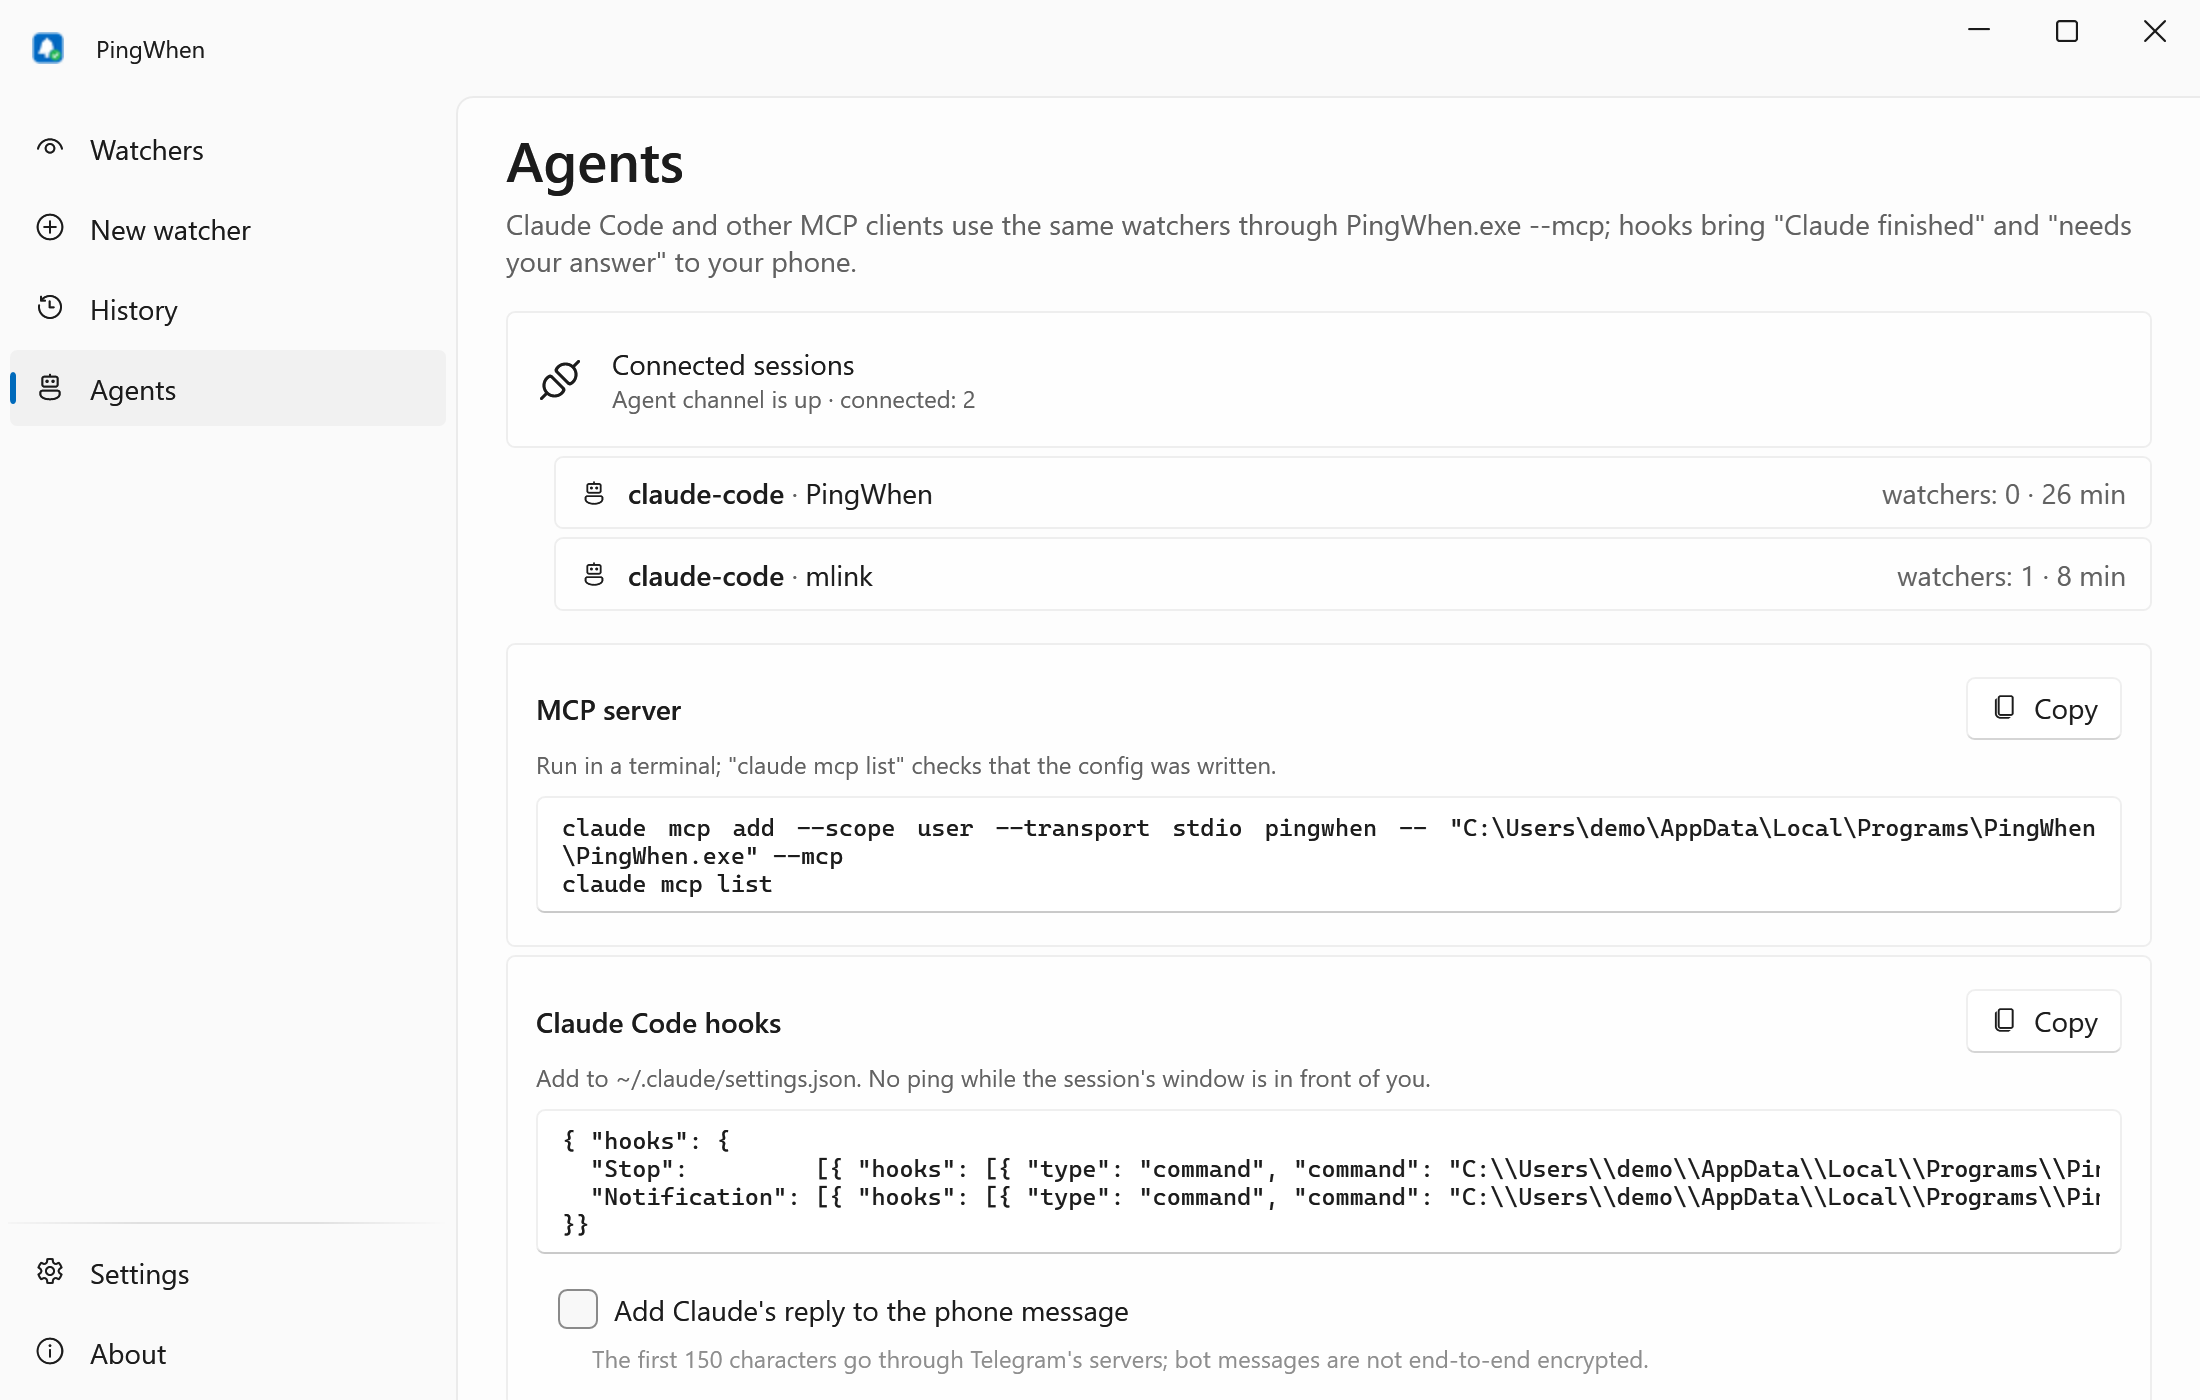
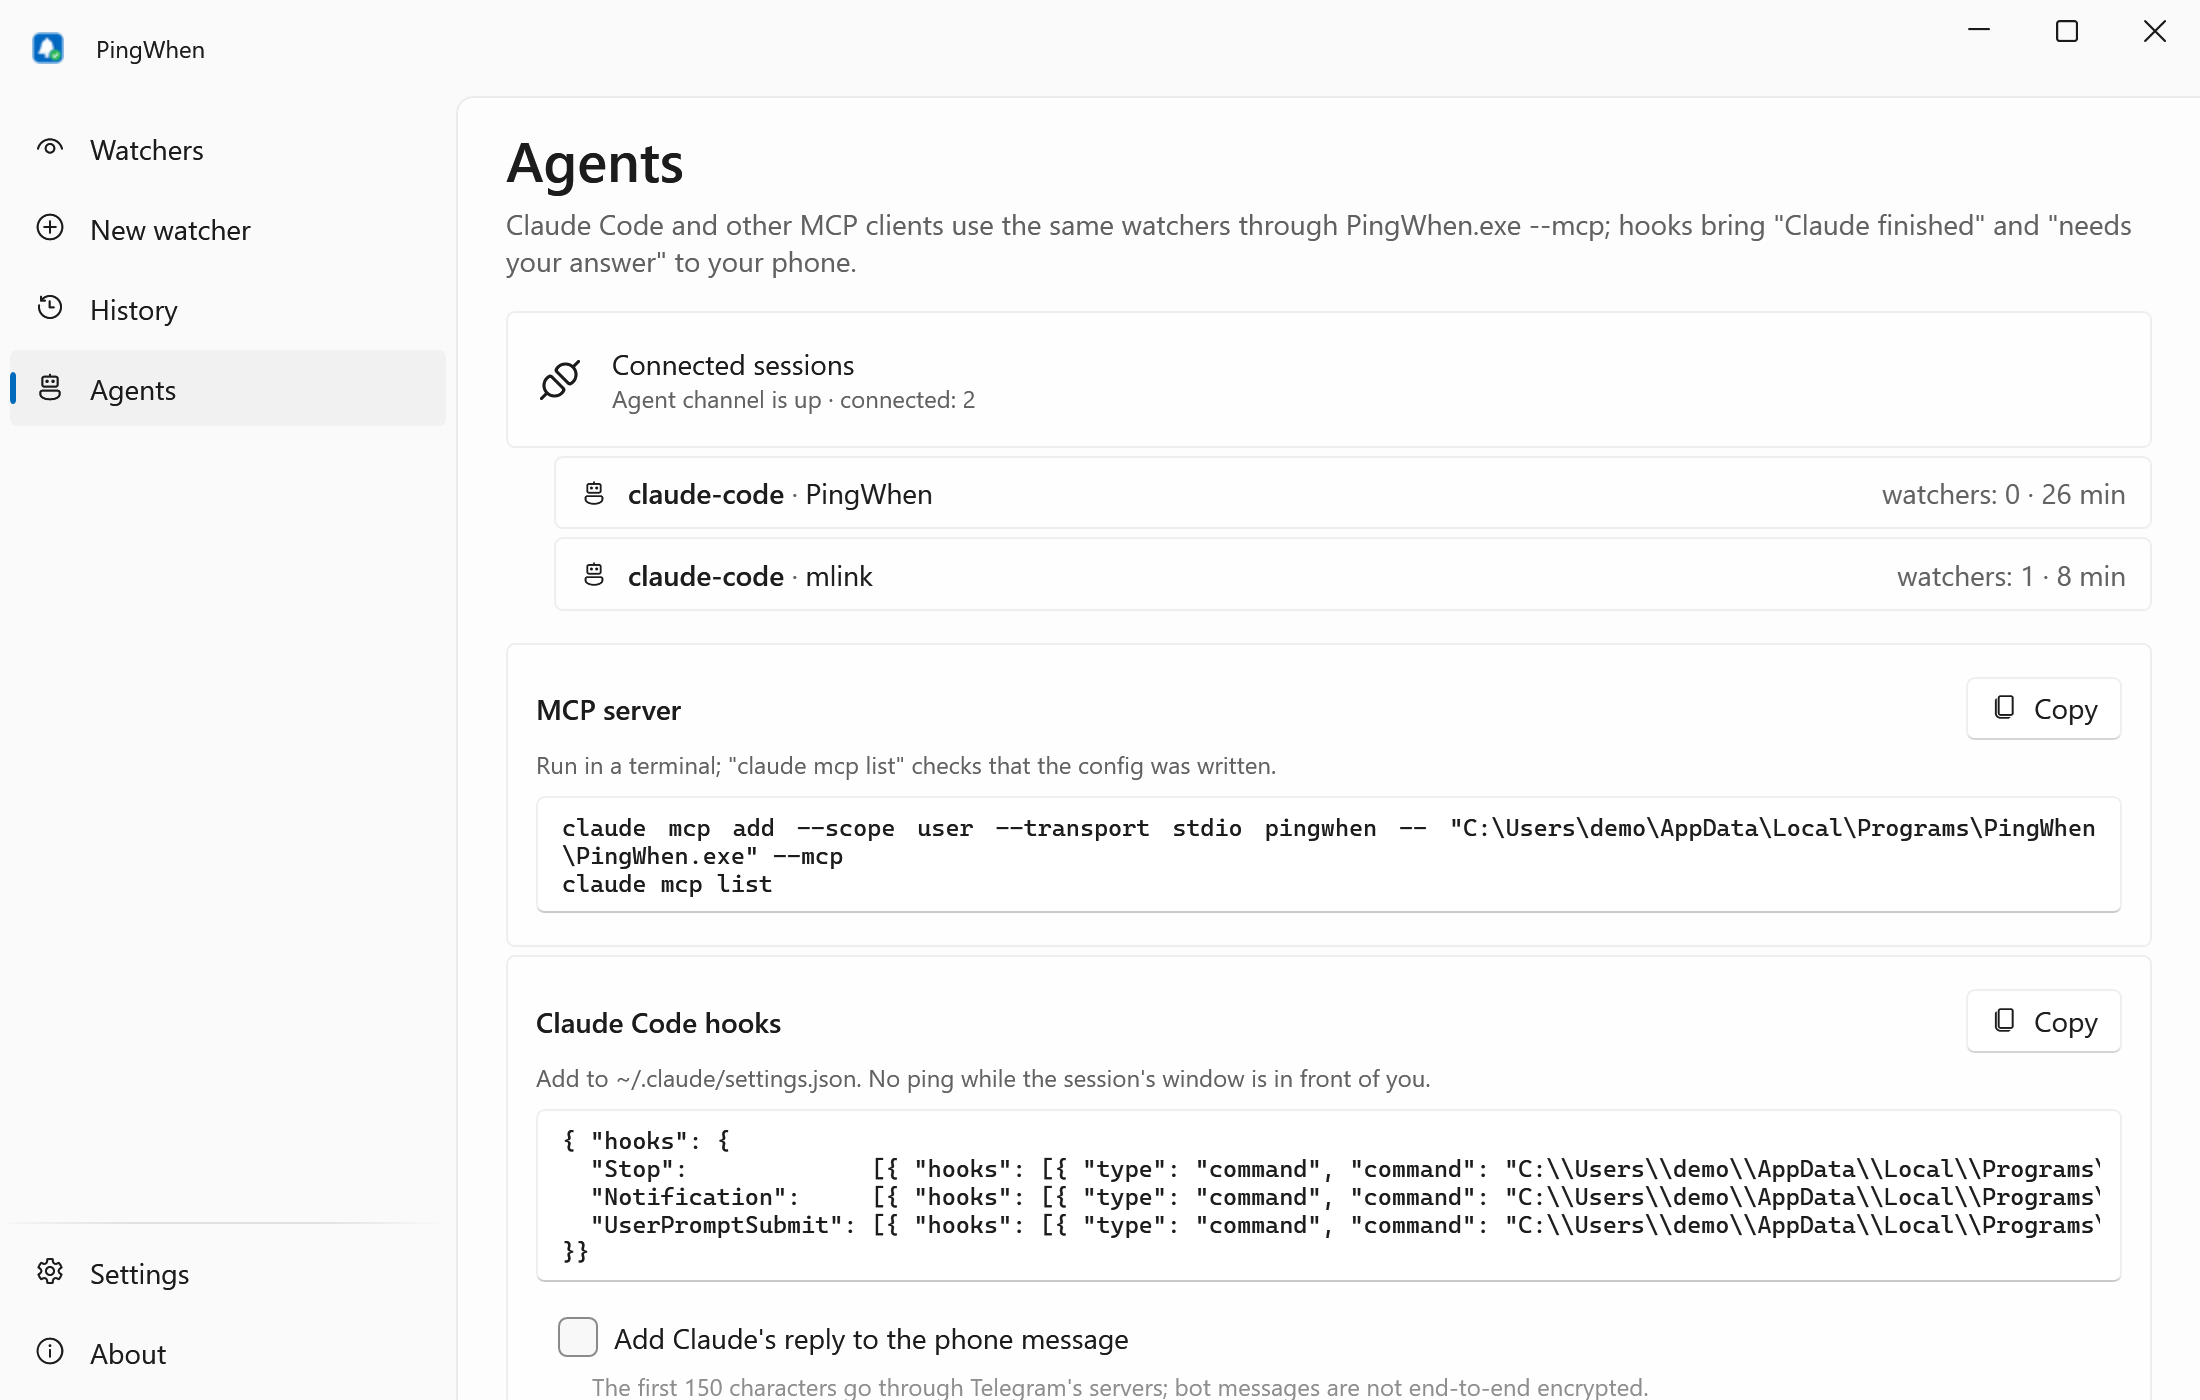
v1.0 polish: README and screenshots, repeat by command line, demo ntfy
README EN/RU describe region watch, screenshots, ntfy, answering permission prompts from the
phone, repeat/deadline/flash and the UserPromptSubmit and PermissionRequest hooks. Repeating a
terminal command matches its command line, not every process with the same exe. The demo shows
ntfy with its QR code; the ntfy labels get the width Russian needs.

Changed region(s): [[0.2473, 0.8293, 0.9582, 1.0]]

diff --git a/src/PingWhen/Features/PingSettingsView.xaml b/src/PingWhen/Features/PingSettingsView.xaml
@@ -93,7 +93,7 @@
                 <StackPanel x:Name="NtfyPanel" Margin="0,8,0,0">
                     <Grid Margin="0,0,0,8">
                         <Grid.ColumnDefinitions>
-                            <ColumnDefinition Width="110" />
+                            <ColumnDefinition Width="Auto" MinWidth="110" />
                             <ColumnDefinition Width="*" />
                             <ColumnDefinition Width="Auto" />
                         </Grid.ColumnDefinitions>
@@ -102,12 +102,12 @@
                             <RowDefinition Height="Auto" />
                             <RowDefinition Height="Auto" />
                         </Grid.RowDefinitions>
-                        <ui:TextBlock Text="{l:T Ntfy.Server}" VerticalAlignment="Center" />
+                        <ui:TextBlock Text="{l:T Ntfy.Server}" VerticalAlignment="Center" Margin="0,0,12,0" />
                         <ui:TextBox x:Name="NtfyServer" Grid.Column="1" Grid.ColumnSpan="2" Margin="0,0,0,6" />
-                        <ui:TextBlock Grid.Row="1" Text="{l:T Ntfy.Topic}" VerticalAlignment="Center" />
+                        <ui:TextBlock Grid.Row="1" Text="{l:T Ntfy.Topic}" VerticalAlignment="Center" Margin="0,0,12,0" />
                         <ui:TextBox x:Name="NtfyTopic" Grid.Row="1" Grid.Column="1" FontFamily="Cascadia Mono, Consolas" Margin="0,0,0,6" />
                         <ui:Button x:Name="NtfyNewTopic" Grid.Row="1" Grid.Column="2" Content="{l:T Ntfy.Generate}" Margin="8,0,0,6" />
-                        <ui:TextBlock Grid.Row="2" Text="{l:T Ntfy.Token}" VerticalAlignment="Center" />
+                        <ui:TextBlock Grid.Row="2" Text="{l:T Ntfy.Token}" VerticalAlignment="Center" Margin="0,0,12,0" />
                         <PasswordBox x:Name="NtfyToken" Grid.Row="2" Grid.Column="1" Grid.ColumnSpan="2" />
                     </Grid>
                     <StackPanel Orientation="Horizontal">

diff --git a/src/PingWhen/Demo/DemoData.cs b/src/PingWhen/Demo/DemoData.cs
@@ -58,6 +58,7 @@ public static class DemoData
                 (161, Outcome.Lost, "Потерян: render.exe", "Не найден после перезапуска", 0, ""),
                 (190, Outcome.Done, "Готово: ollama pull · 7 мин", "Сеть ниже 100 КБ/с 60 с", 420, "pc"),
                 (240, Outcome.Error, "Ошибка: gradle · код 137", "Процесс завершился, код 137", 860, "pc,phone:failed"),
+                (275, Outcome.Done, "Готово: render.blend · 48 мин", "Найден текст: Finished 100%", 2880, "pc,ntfy"),
             ]
             :
             [
@@ -73,6 +74,7 @@ public static class DemoData
                 (161, Outcome.Lost, "Lost: render.exe", "Not found after a restart", 0, ""),
                 (190, Outcome.Done, "Done: ollama pull · 7 min", "Network below 100 KB/s for 60 s", 420, "pc"),
                 (240, Outcome.Error, "Error: gradle · code 137", "Process exited, code 137", 860, "pc,phone:failed"),
+                (275, Outcome.Done, "Done: render.blend · 48 min", "Text found: Finished 100%", 2880, "pc,ntfy"),
             ];
         for (var i = 0; i < 20; i++)
         {
@@ -85,6 +87,7 @@ public static class DemoData
         AgentsPage.DemoSessions.Add(("claude-code", "PingWhen", 0, 26));
         AgentsPage.DemoSessions.Add(("claude-code", "mlink", 1, 8));
         PingSettingsView.DemoTelegram = new TelegramSettings { BotUsername = "my_pingwhen_bot", ChatId = 1, FirstName = "Alex", PairedAt = now };
+        Settings.Current.Ntfy = new NtfySettings { Enabled = true, Server = "https://ntfy.sh", Topic = "pingwhen-demo-q7m2x9k4" }; // in memory only under --demo
     }
 
     /// <summary>Under --demo the New page and the tray menu offer these instead of the real windows and processes.</summary>

diff --git a/src/PingWhen/Features/NewWatcherPage.xaml.cs b/src/PingWhen/Features/NewWatcherPage.xaml.cs
@@ -342,7 +342,12 @@ public partial class NewWatcherPage
         w.WaitChildren = c == Cond.Exited && WaitChildrenBox.IsChecked == true;
         w.Repeat = c != Cond.Closed && RepeatBox.IsChecked == true;
         if (w.Repeat && w.Kind == Kind.Process && w.ProcessName is null && w.CommandLineContains is null)
-            w.ProcessName = w.Processes.FirstOrDefault()?.Name; // "every time it exits" needs a name: a pid exits once
+        {
+            // "every time it exits" needs a selector, a pid exits once: the same command line for a terminal command, else the name
+            var args = editing is null && SelectedCommand is { } cmd ? CmdLine.SplitExe(cmd.CommandLine).RawArgs.Trim() : "";
+            if (args.Length >= 3) w.CommandLineContains = args;
+            else w.ProcessName = w.Processes.FirstOrDefault()?.Name;
+        }
         w.DeadlineMinutes = DeadlineBox.IsChecked == true ? (int)Math.Max(1, DeadlineMinutes.Value ?? 60) : null;
         return true;
     }

diff --git a/README.md b/README.md
@@ -29,12 +29,11 @@ or in a fullscreen game. Your AI agents get the same engine: "Claude finished" a
 
 - **Any window, one hotkey** — `Ctrl+Alt+W`: process exit (with exit code), window closed or title changed, file stopped growing, CPU/GPU/disk/network gone quiet.
 - **Terminal-aware** — watches the command running inside Windows Terminal or VS Code, not the terminal itself.
-- **PC or phone** — a toast while you are at the PC; a Telegram message from your own bot when you are away or in a fullscreen game. Setup takes two minutes.
-- **Built for AI agents** — an MCP server and Claude Code hooks: agents start watchers and send notifications; "done" and "needs your answer" come by themselves.
-- **Survives restarts and sleep** — watchers are saved, pids are checked by start time, quiet timers restart after wake; optionally keeps the PC awake while waiting.
-- **Local-only** — no account, no telemetry, no admin rights, no author's server. The bot is yours; its token is encrypted with Windows DPAPI.
-
-Planned for v1.0: region watch with pixel diff and Windows OCR, screenshots in notifications, ntfy as a second channel, Allow once / Deny buttons for Claude Code permission prompts.
+- **Region watch** — draw a rectangle on a window: "stopped changing", "changed" or "the text 100% appeared" (Windows OCR), even behind other windows.
+- **PC or phone** — a toast while you are at the PC; a message from your own Telegram bot or ntfy when you are away or in a fullscreen game, optionally with a screenshot.
+- **Built for AI agents** — an MCP server and Claude Code hooks: "done" and "needs your answer" reach the phone; opt-in Allow once / Deny buttons answer the permission prompt from Telegram.
+- **Every time, deadlines, flashing** — repeat a watcher ("every time ffmpeg exits"), get "not done in 30 min", or wait for a taskbar button to flash.
+- **Local-only** — no account, no telemetry, no admin rights, no author's server. The bot is yours; tokens are encrypted with Windows DPAPI.
 
 ## Screenshots
 
@@ -60,6 +59,10 @@ Requirements: Windows 11 x64. Windows 10 22H2 should work but is not tested.
 **Phone (Telegram, two minutes).** In Telegram open [@BotFather](https://t.me/BotFather), send `/newbot`, pick a name and a username, copy the token.
 In PingWhen: Settings → Telegram → paste the token → **Check** → **Pair** → **Open in Telegram** → **Start** (or send the 8-character code to the bot from your phone).
 The bot only sends, and only to the chat that sent the code. Use a separate bot for each PC.
+Where Telegram is blocked, turn on **ntfy** in Settings: a random topic on ntfy.sh or your own server, subscribe by scanning the QR code in the ntfy app.
+
+**Region of a window:** New watcher → the window → "Region stops changing" (or "changes", "Text appears in the region") → **Select region…** → drag a rectangle over the progress bar.
+The window may be covered by others; a minimized window pauses the watch. Text recognition uses the Windows OCR languages you have installed.
 
 **From scripts:** `npm run build && PingWhen.exe --notify "Build finished"`; title and body: `PingWhen.exe --notify "Title" "Body"`.
 
@@ -73,19 +76,23 @@ claude mcp add --scope user --transport stdio pingwhen -- "C:\Users\<you>\AppDat
 claude mcp list
 ```
 
-Tools: `notify`, `watch_process` (by pid, name or command line substring), `watch_file`, `watch_window`, `watch_quiet`, `list_watchers`, `cancel_watcher`.
+Tools: `notify`, `watch_process` (by pid, name or command line substring), `watch_file`, `watch_window` (closed, title, flashed), `watch_quiet`, `list_watchers`, `cancel_watcher`; watch tools take `repeat` and `deadline_minutes`.
 Limits: 6 notifications a minute per session and 60 an hour; 20 watchers per session, 50 in total; agent watchers expire after 24 h.
 
-Hooks bring "<folder>: Claude finished" and "<folder>: needs your answer" even while Claude waits for permission and cannot call a tool. Add to `~/.claude/settings.json`:
+Hooks bring "<folder>: Claude finished" and "<folder>: needs your answer" even while Claude waits for permission and cannot call a tool. Add to `~/.claude/settings.json` (the Agents page has it with your path):
 
 ```json
 { "hooks": {
-  "Stop":         [{ "hooks": [{ "type": "command", "command": "C:\\Users\\<you>\\AppData\\Local\\Programs\\PingWhen\\PingWhen.exe", "args": ["--hook"], "timeout": 10 }] }],
-  "Notification": [{ "hooks": [{ "type": "command", "command": "C:\\Users\\<you>\\AppData\\Local\\Programs\\PingWhen\\PingWhen.exe", "args": ["--hook"], "timeout": 10 }] }]
+  "Stop":             [{ "hooks": [{ "type": "command", "command": "C:\\Users\\<you>\\AppData\\Local\\Programs\\PingWhen\\PingWhen.exe", "args": ["--hook"], "timeout": 10 }] }],
+  "Notification":     [{ "hooks": [{ "type": "command", "command": "C:\\Users\\<you>\\AppData\\Local\\Programs\\PingWhen\\PingWhen.exe", "args": ["--hook"], "timeout": 10 }] }],
+  "UserPromptSubmit": [{ "hooks": [{ "type": "command", "command": "C:\\Users\\<you>\\AppData\\Local\\Programs\\PingWhen\\PingWhen.exe", "args": ["--hook"], "timeout": 10 }] }]
 }}
 ```
 
-There is no ping while the session's terminal or editor is the active window and you are at the PC. `--hook` always exits 0 and prints nothing, so it never stops Claude.
+There is no ping while the session's terminal or editor is the active window and you are at the PC. `UserPromptSubmit` lets PingWhen skip "finished" for short turns (Agents page). `--hook` always exits 0 and prints nothing, so it never stops Claude.
+
+**Answer from the phone (opt-in).** Settings → Telegram → "Answer Claude Code's permission prompts from the phone" adds a `PermissionRequest` hook (timeout 150) to the JSON.
+While you are away, the prompt comes to Telegram with **Allow once** and **Deny**; no answer in 2 minutes and Claude shows its usual dialog. Only your paired account can press; there is no "always allow" and no text input.
 
 ## How it works
 
@@ -98,15 +105,18 @@ The phone channel is your own bot: PingWhen calls the Bot API directly, pairs wi
 | Setting | Default | What it does |
 |---|---|---|
 | Telegram | not set up | Your bot's token (DPAPI), paired chat, Test, Unpair |
+| ntfy | off | Server (ntfy.sh or yours), random topic, optional token (DPAPI), Test, QR to subscribe |
+| Answer permission prompts from the phone | off | Telegram buttons Allow once / Deny for Claude Code, only while you are away |
 | I'm away after | 3 min | Auto route: the phone gets a message after this long without input |
 | Phone during fullscreen games and presentations | on | Auto route: the phone also gets it while a game or presentation is fullscreen |
 | Hotkey | `Ctrl+Alt+W` | New watcher for the active window |
 | Claude's reply on the phone | off | Agents page: the first 150 characters of Claude's last message in the "finished" message |
+| "Claude finished" only after turns of at least | 0 s | Agents page: skip short turns (needs the `UserPromptSubmit` hook) |
 | Language, theme | Windows | English or Russian (after a restart), light or dark |
 | Start with Windows, Start menu shortcut | off; on when the exe is in `%LOCALAPPDATA%\Programs\PingWhen\` | Starts in the tray |
 | Check for updates | on | Once a day asks GitHub about a new release, downloads nothing |
 
-Per watcher: **Route** Auto / PC only / Phone only / PC and phone, **Don't let the PC sleep while waiting**, **Wait for child processes too** (installers). Tray: **Do not disturb for 1 h** mutes the phone, toasts stay.
+Per watcher: **Route** Auto / PC only / Phone only / PC and phone, **Don't let the PC sleep while waiting**, **Wait for child processes too** (installers), **Every time**, **Attach a screenshot of the window** (off), **Tell me if it is not done within N minutes**. Tray: **Do not disturb for 1 h** mutes the phone, toasts stay.
 Data lives in `%APPDATA%\PingWhen`: `settings.json`, `watchers.json`, `history.jsonl` (last 500 events), `logs\`.
 
 ## FAQ
@@ -126,7 +136,18 @@ Please report it to your antivirus vendor and open an issue with the detection n
 
 <details><summary>Telegram is blocked in my country</summary>
 
-The toast on the PC always works. A VPN or proxy set in Windows is used automatically. ntfy as a second phone channel (also self-hosted) is planned for v1.0.
+The toast on the PC always works. Turn on ntfy in Settings (ntfy.sh or your own server). A VPN or proxy set in Windows is used automatically for both.
+</details>
+
+<details><summary>Region watch shows a yellow border or no text is found</summary>
+
+Windows draws a yellow border around a captured window on builds older than Windows 11 24H2; on newer builds PingWhen turns it off.
+"Text appears" needs a Windows OCR language (Settings → Time &amp; language → Language: a language with optical character recognition). A minimized window gives no picture: the watch pauses.
+</details>
+
+<details><summary>Is answering Claude from the phone safe?</summary>
+
+Whoever controls your Telegram account can approve your agent's actions, so it is off by default. A press counts only from your paired account, only once and only while the request waits; there is no "always allow".
 </details>
 
 <details><summary>My bot token leaked</summary>
@@ -152,7 +173,8 @@ Remove the `pingwhen` MCP server (`claude mcp remove pingwhen`) and the hooks, t
 ## Privacy
 
 No telemetry, no account, no author's server. Network requests:
-- `https://api.telegram.org/bot<your token>/…` — only when sending a message, checking the token or pairing (getMe, getUpdates, sendMessage). Messages go through Telegram's servers: watcher titles, window titles, process and file names; Claude's reply text only if you turn it on.
+- `https://api.telegram.org/bot<your token>/…` — only when sending a message, checking the token, pairing or waiting for a permission button (getMe, getUpdates, sendMessage, sendPhoto, answerCallbackQuery, editMessageText). Messages go through Telegram's servers: watcher titles, window titles, process and file names; Claude's reply text, screenshots and permission requests only if you turn them on.
+- Your ntfy server (`https://ntfy.sh` by default) — only if ntfy is on: the same texts, screenshots if turned on. Anyone who knows the topic can read it.
 - `GET https://api.github.com/repos/lojekq/PingWhen/releases/latest` once a day; turn it off in Settings.
 
 The agent pipe `\\.\pipe\PingWhen-<your SID>` is open only to your Windows account. Agents can notify and watch (metadata only); they cannot read files or change settings.
